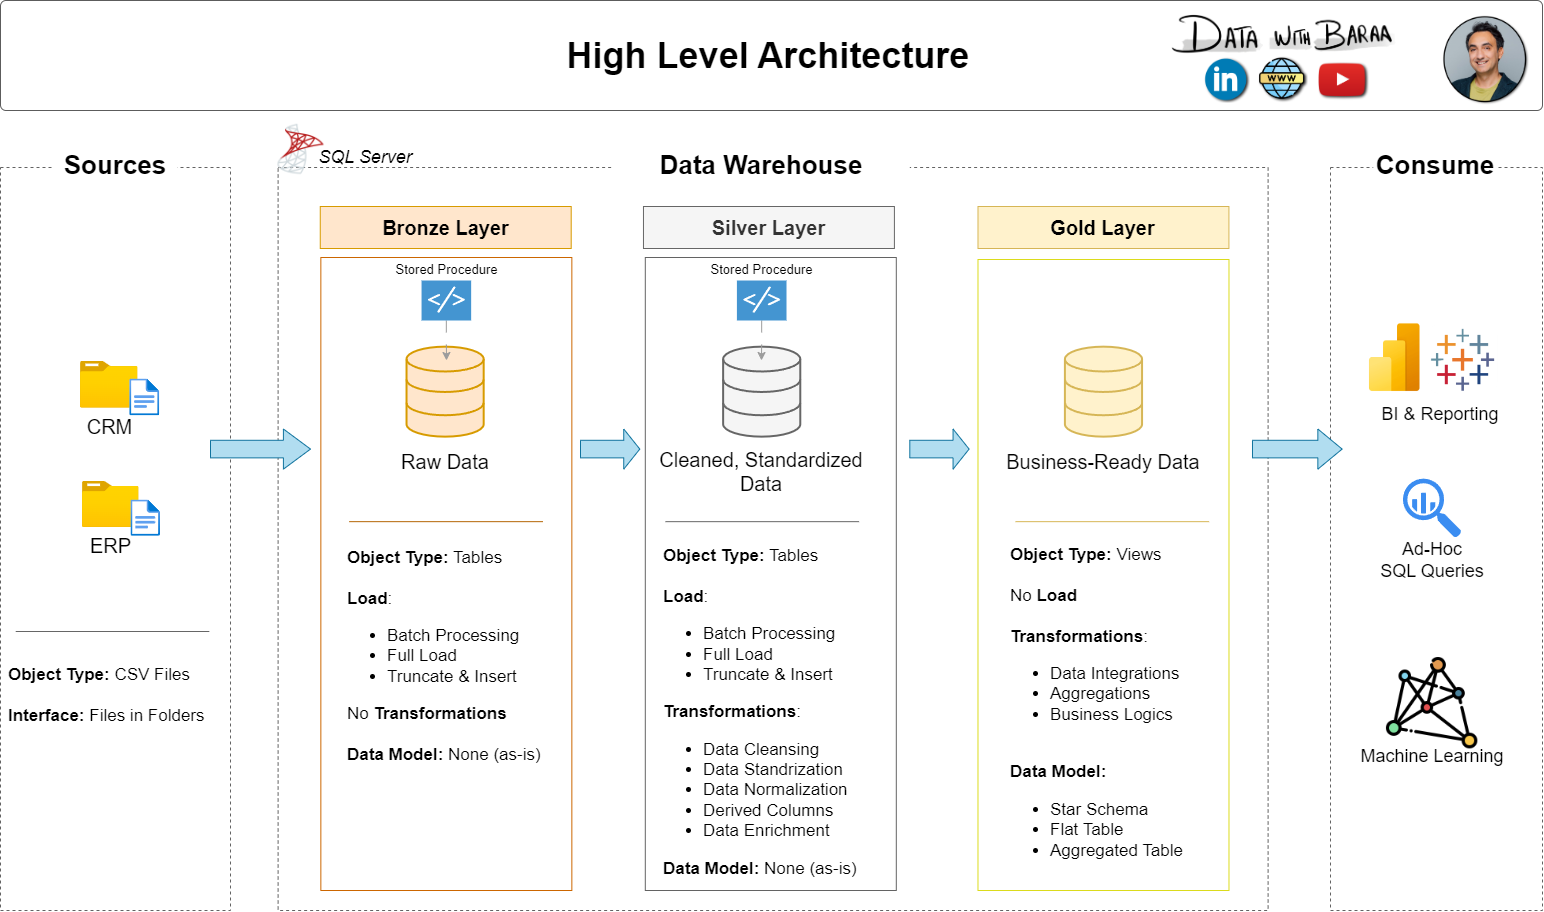
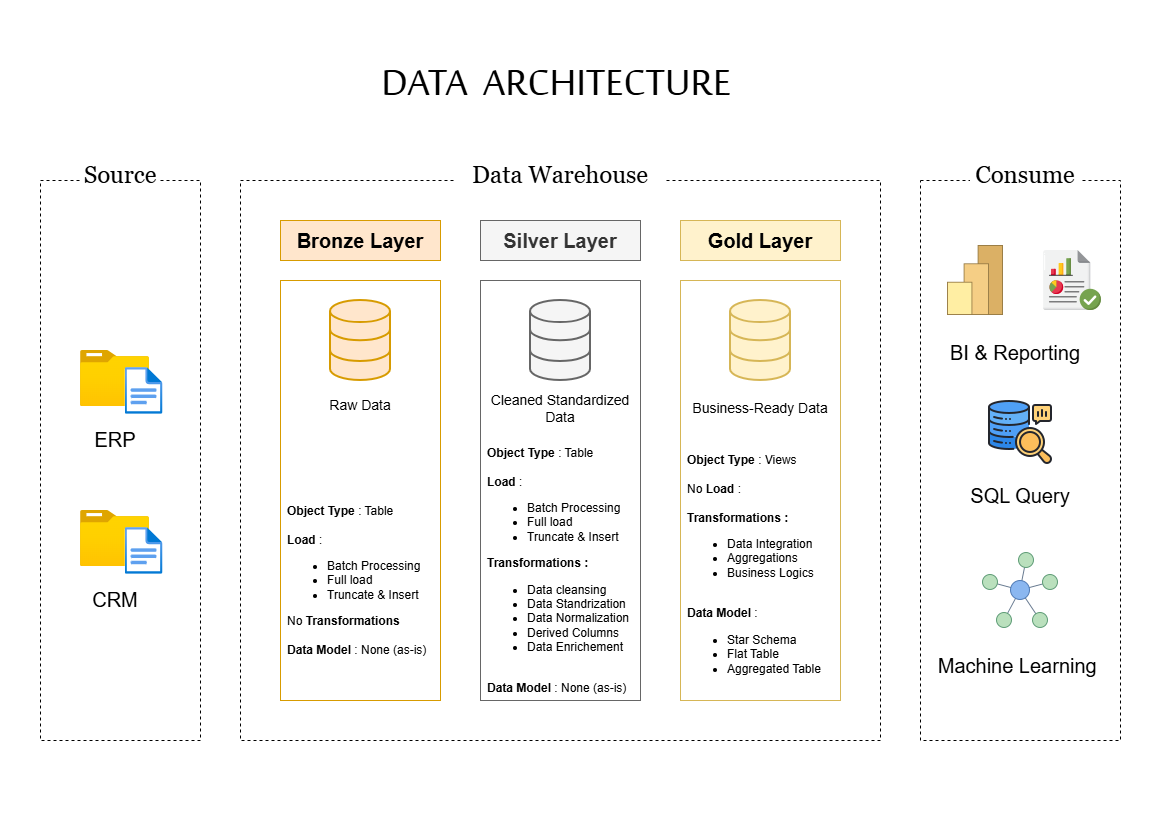
Update

diff --git a/README.md b/README.md
@@ -1,4 +1,3 @@
-
 # Project Requirements
 
 ## Building the data warehouse
@@ -12,3 +11,87 @@ Develop a modern data warehouse using SQL to consolidate sales data, enabling an
 - Integration : Combine both sources into single.
 - Scope : Focus on the latest dataset only; historization is not required;
 - Documentation : Provide clear documentation of the data model.
+
+# Data Warehouse Project
+
+A modern data warehouse built with **PostgreSQL** following the **Medallion Architecture** (Bronze → Silver → Gold).
+
+---
+
+## Overview
+
+This project demonstrates a complete ETL pipeline that:
+
+1. **Bronze** — Loads raw CSV data from CRM and ERP sources
+2. **Silver** — Cleans, deduplicates, and standardizes the data
+3. **Gold** — Builds a star schema (dimensions + fact table) for analytics
+
+---
+
+## Architecture
+
+![data architecture](./docs/data_architecture.png)
+
+---
+
+## Data Model
+
+![data model](./docs/data_model.png)
+
+---
+
+## 📁 Project Structure
+
+```
+data-warehouse-project/
+│
+├── datasets/                           # Raw datasets used for the project (ERP and CRM data)
+│
+├── docs/                               # Project documentation and architecture details
+│   ├── data_architecture.drawio        # Draw.io file shows the project's architecture
+│   ├── data_catalog.md                 # Catalog of datasets, including field descriptions and metadata
+│   ├── data_flow.drawio                # Draw.io file for the data flow diagram
+│   ├── data_model.drawio              # Draw.io file for data models (star schema)
+│   ├── naming_conventions.md           # Consistent naming guidelines for tables, columns, and files
+│
+├── scripts/                            # SQL scripts for ETL and transformations
+│   ├── bronze/                         # Scripts for extracting and loading raw data
+│   ├── silver/                         # Scripts for cleaning and transforming data
+│   ├── gold/                           # Scripts for creating analytical models
+│
+├── tests/                              # Test scripts and quality files
+│
+|── README.md                           # Project overview and instructions
+```
+
+---
+
+## Getting Started
+
+### Prerequisites
+
+- PostgreSQL 14+
+- `psql` command-line tool
+
+### 1. Clone the repository
+
+```bash
+git clone https://github.com/imad-0/data-warehouse-project.git
+cd data-warehouse-project
+```
+
+### 2. Create the database
+
+```bash
+psql -U postgres -c "CREATE DATABASE datawarehouse;"
+```
+
+### 3. Run the scripts (from the project root)
+
+---
+
+## 👤 Author
+
+**Your Name**
+
+- GitHub: [@your-username](https://github.com/IMAD-0)
